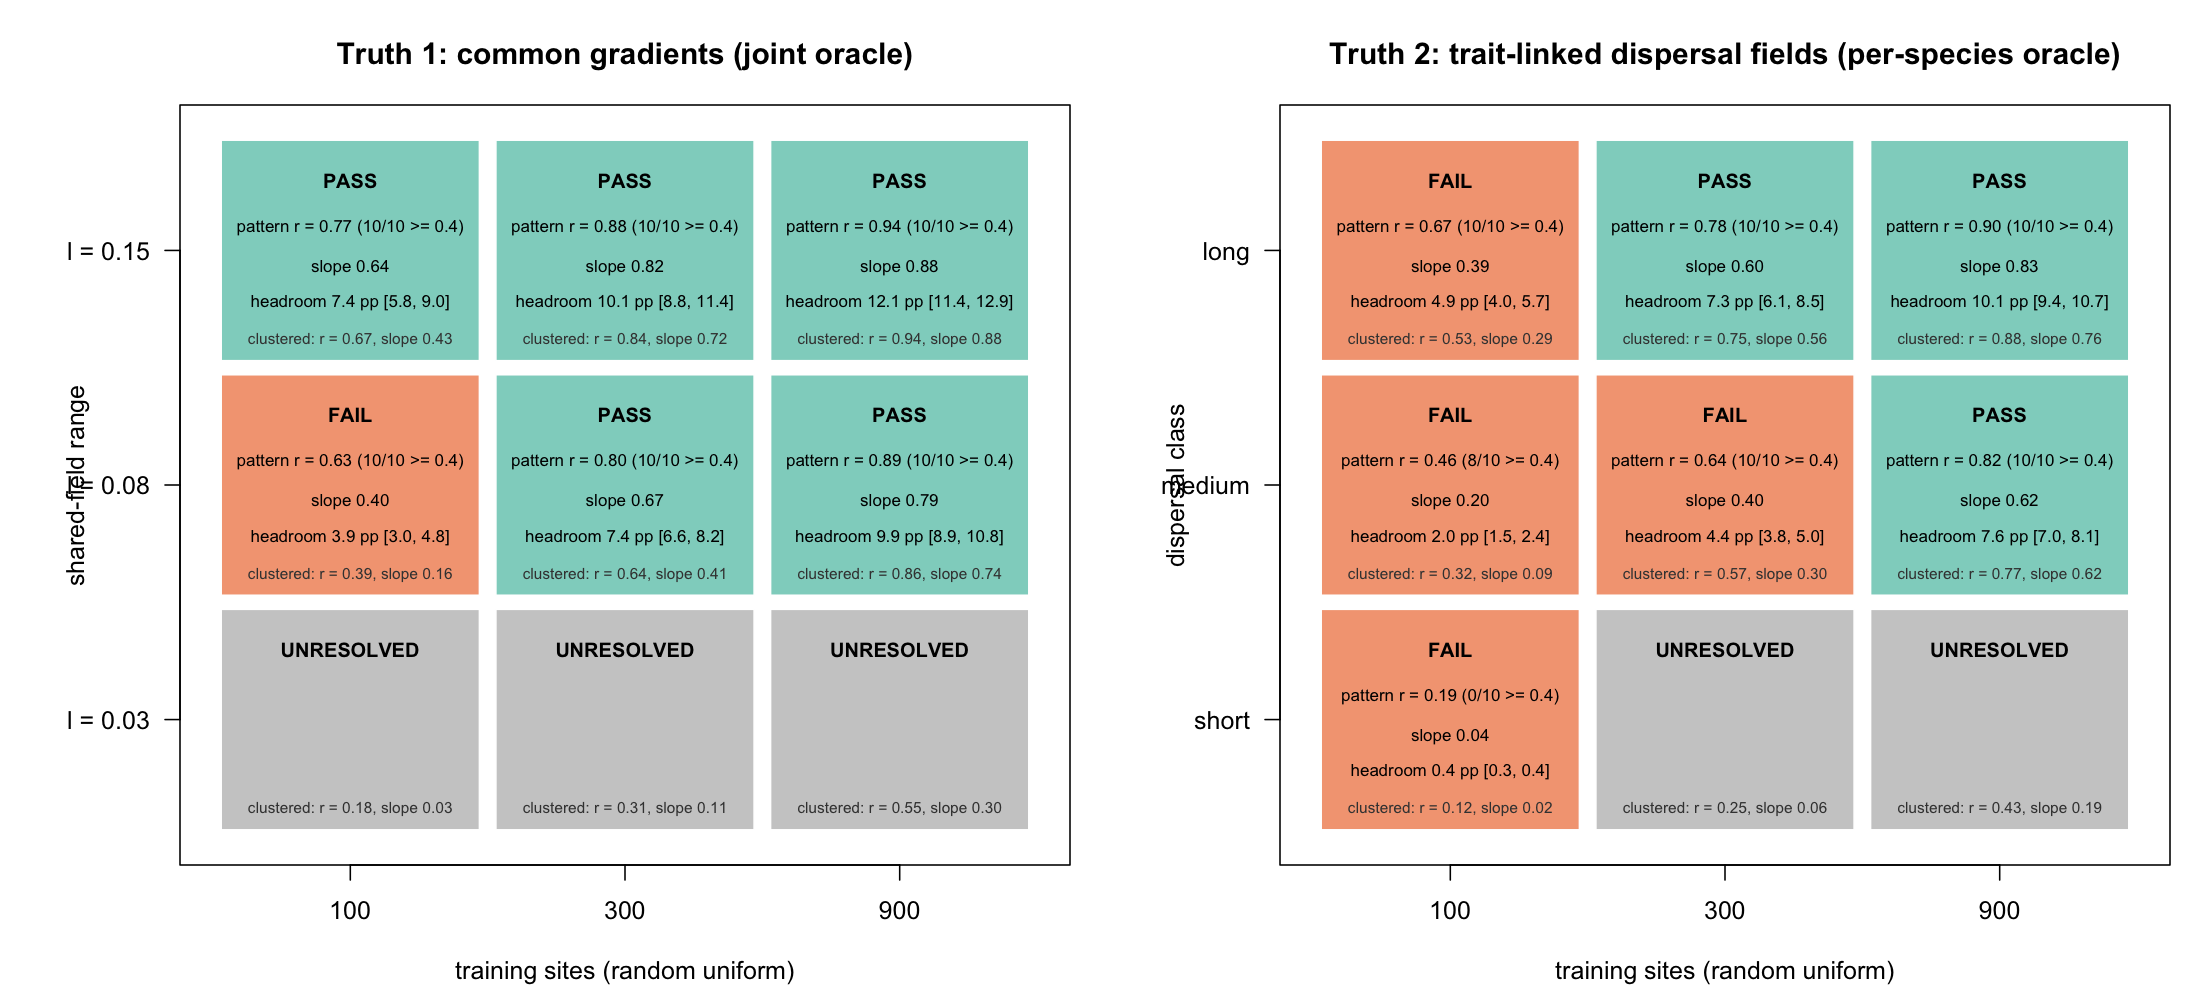
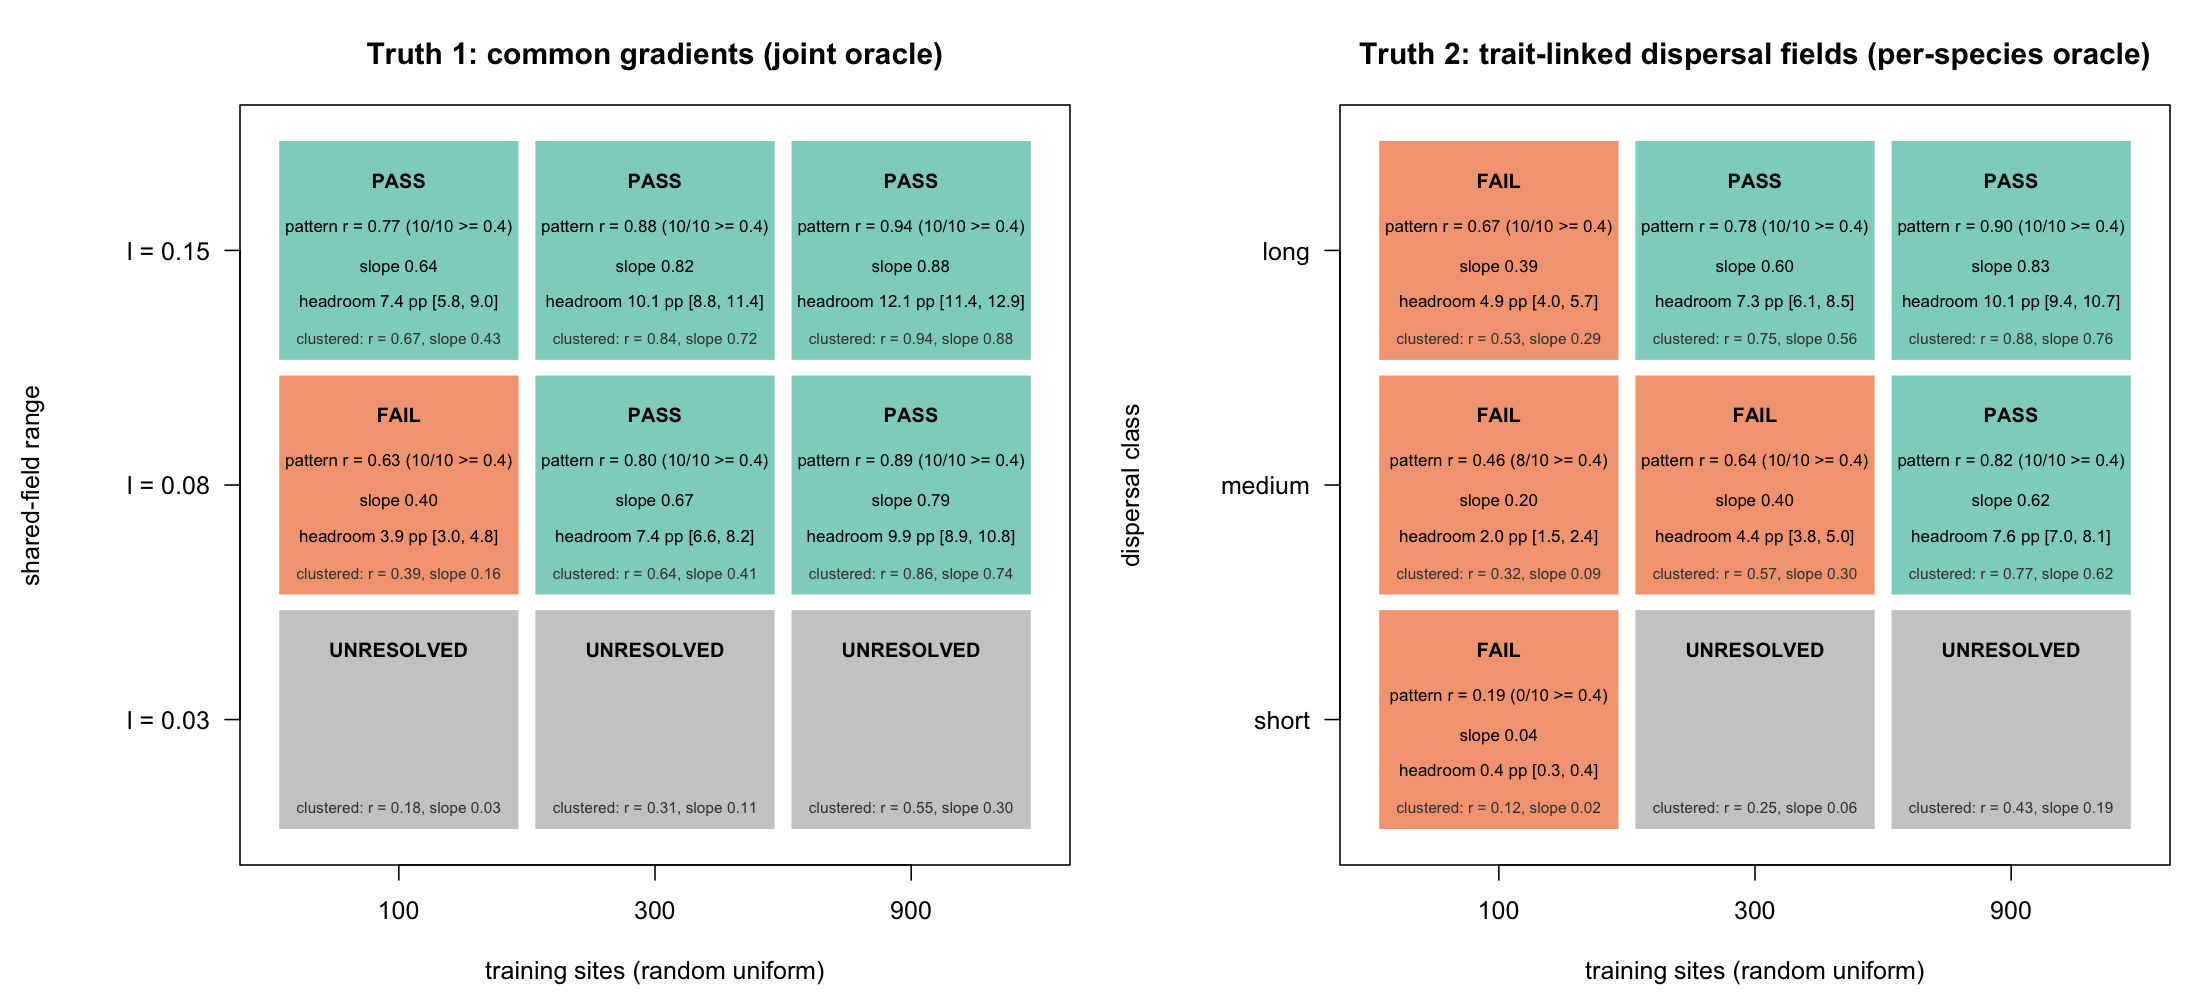
Fix the recoverability map's overprinted axis titles
The y-axis titles in recoverability-map.png overprinted the range 0.08 and
medium row labels. plot.R now uses a wider left margin and places the titles
explicitly. Redrawing changed only the PNG: every copied CSV and config.json
came out byte-identical, and no score, threshold or verifier changed. The
report caption and handover note no longer mention the defect.

diff --git a/dev/simstudy/spatial-recoverability-pilot/REPORT.md b/dev/simstudy/spatial-recoverability-pilot/REPORT.md
@@ -117,7 +117,7 @@ Once each cell is pass, fail or unresolved, the spec fixes a rule for turning th
 
 ![Recoverability map: pass, fail or unresolved for every truth, range or class, and site count](results/recoverability-map.png)
 
-The figure shows the same 18 cells that are listed below. Left panel: truth 1, with the three ranges as rows. Right panel: truth 2, with the three dispersal classes as rows. Columns are the three site counts. Green is pass, orange is fail, grey is unresolved. Each coloured cell gives the pattern correlation, the slope and the headroom, with the clustered result in small type. The figure and the bullets below show the map after the resolution extension, the second reading in section 3.6. In the PNG the y-axis titles overprint two row labels, the range 0.08 label on the left and the medium label on the right; reading from the top, the left rows are ranges 0.15, 0.08 and 0.03 and the right rows are the long, medium and short classes.
+The figure shows the same 18 cells that are listed below. Left panel: truth 1, with the three ranges as rows. Right panel: truth 2, with the three dispersal classes as rows. Columns are the three site counts. Green is pass, orange is fail, grey is unresolved. Each coloured cell gives the pattern correlation, the slope and the headroom, with the clustered result in small type. The figure and the bullets below show the map after the resolution extension, the second reading in section 3.6. Rows run from the top: ranges 0.15, 0.08 and 0.03 on the left, and the long, medium and short classes on the right.
 
 To read a bullet below, take one as an example: truth 1, range 0.08, n = 300. Its pattern median is 0.80, so the oracle's map of the field's effect on occupancy correlates 0.80 with the truth, and all 10 communities reach at least 0.4. Its slope is 0.67, so the oracle recovers about two thirds of the field's strength. Its headroom is 7.4 percentage points, so the oracle's probabilities are on average 7.4 points closer (in RMSE) to the truth than the best prediction without the field, which is 0.41 of the maximum possible gain. Every bar is cleared, so the cell passes.
 

diff --git a/dev/simstudy/spatial-recoverability-pilot/HANDOVER.md b/dev/simstudy/spatial-recoverability-pilot/HANDOVER.md
@@ -4,7 +4,7 @@
 
 The run is complete, scored and verified. What remains is the report and the branch review. This section supersedes the step list below, which is kept as the record of the first handover.
 
-Status, 11 October 2026, evening: the four remaining steps below are done. `REPORT.md` is written, the two `TODO.md` lines are added, the whole-branch review was run and its findings were fixed, except one: the y-axis titles in `results/recoverability-map.png` overprint two row labels, and redrawing the PNG (`plot.R`, a margin change) was left for Doug to approve because the handover said not to re-run anything. What is left is Doug's review of the rendered report and map, and his decisions, which are listed in section 7 of the report.
+Status, 11 October 2026, evening: the four remaining steps below are done. `REPORT.md` is written, the two `TODO.md` lines are added, the whole-branch review was run and its findings were fixed. The map's y-axis titles overprinted two row labels; with Doug's approval `plot.R` got a wider left margin and the PNG was redrawn, which changed no other result file. What is left is Doug's review of the rendered report and map, and his decisions, which are listed in section 7 of the report.
 
 State:
 
